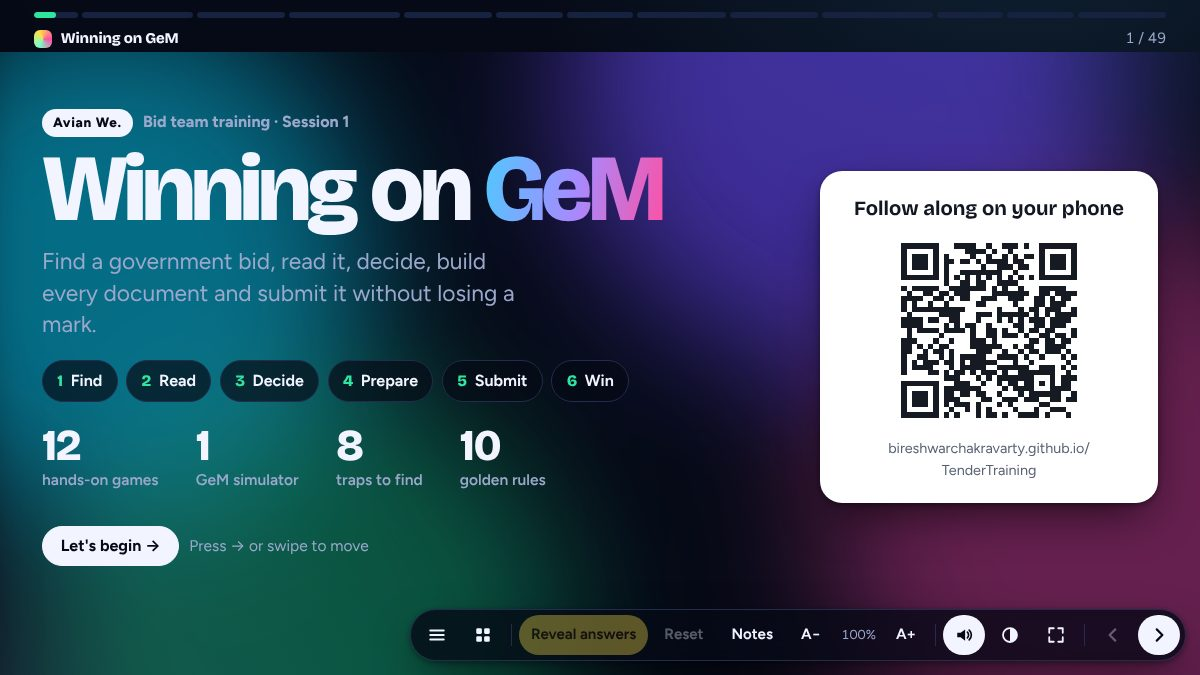
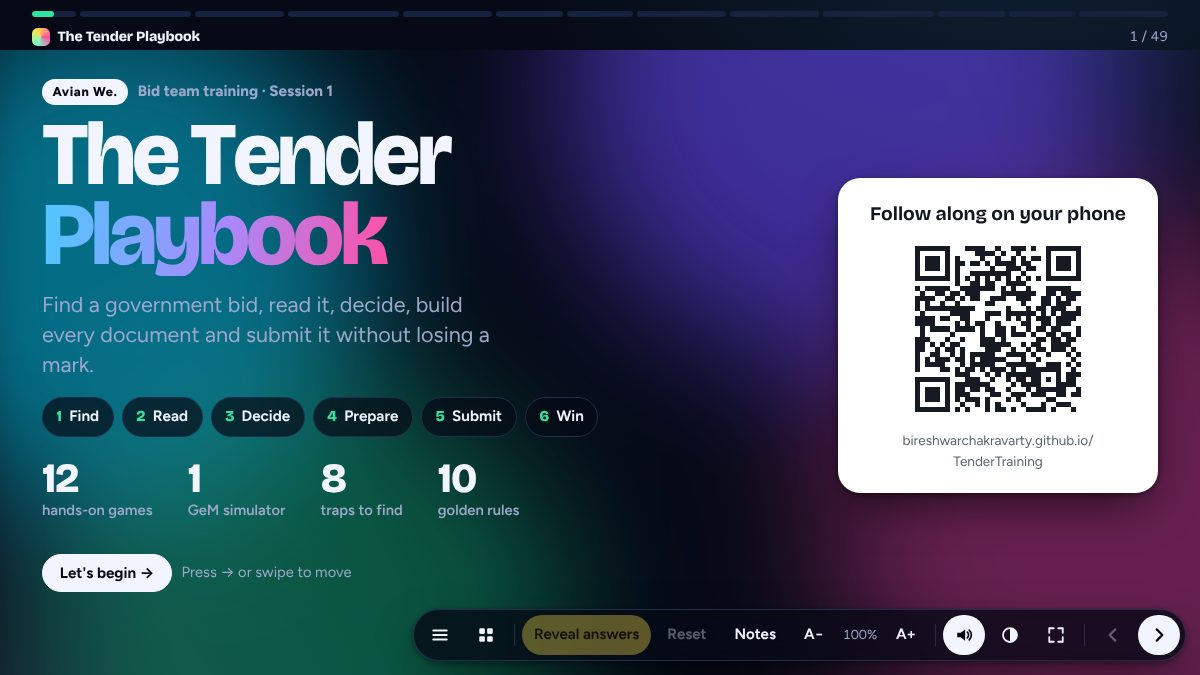
Rename the session to The Tender Playbook
Update the cover title, title bar, browser tab, presenter link page,
thank-you slide, README, facilitator guide and package description,
and refresh the README screenshots. The repository and its links keep
their names.

Claude-Session: https://claude.ai/code/session_01DPx9AkKAo1kfFoZzMQx8py

diff --git a/index.html b/index.html
@@ -3,7 +3,7 @@
 <head>
 <meta charset="utf-8">
 <meta name="viewport" content="width=device-width, initial-scale=1, viewport-fit=cover">
-<title>Winning on GeM</title>
+<title>The Tender Playbook</title>
 <meta name="claude:viewport-fit-sides" content="cover">
 <meta name="description" content="Avian We. tender training: finding, reading, preparing and submitting a GeM bid, with a practice tender.">
 <link rel="preconnect" href="https://fonts.googleapis.com">
@@ -16,18 +16,18 @@
 <div class="app">
   <header class="topbar">
     <div class="chapterbar" id="chapterbar" aria-label="Chapters"></div>
-    <div class="topline"><span class="logo"><i aria-hidden="true"></i>Winning on GeM</span><span class="chapter-name" id="chapterName"></span><span class="count" id="count">1 / 1</span></div>
+    <div class="topline"><span class="logo"><i aria-hidden="true"></i>The Tender Playbook</span><span class="chapter-name" id="chapterName"></span><span class="count" id="count">1 / 1</span></div>
   </header>
 
   <main class="stage" id="stage">
 
 <!-- =================================================================== 00 · THE FILE -->
-<section class="slide cover" id="start" data-chapter="0" data-title="Winning on GeM">
+<section class="slide cover" id="start" data-chapter="0" data-title="The Tender Playbook">
   <div class="deco" aria-hidden="true"><div class="aurora"><i></i><i></i><i></i><i></i></div></div>
   <div class="cover-grid">
     <div>
       <span class="kicker"><b>Avian We.</b> Bid team training · Session 1</span>
-      <h1 class="title-xl"><span data-split>Winning on</span> <span class="accent">GeM</span></h1>
+      <h1 class="title-xl"><span data-split>The Tender</span> <span class="accent">Playbook</span></h1>
       <p class="cover-sub">Find a government bid, read it, decide, build every document and submit it without losing a mark.</p>
       <div class="journey" aria-label="The journey">
         <span style="--k:0"><b>1</b> Find</span><span style="--k:1"><b>2</b> Read</span><span style="--k:2"><b>3</b> Decide</span><span style="--k:3"><b>4</b> Prepare</span><span style="--k:4"><b>5</b> Submit</span><span style="--k:5"><b>6</b> Win</span>
@@ -1029,7 +1029,7 @@
 
 <section class="slide finale" id="thanks" data-chapter="12" data-title="Thank you">
   <div class="deco" aria-hidden="true"><div class="aurora"><i></i><i></i><i></i><i></i></div></div>
-  <span class="kicker"><b>THAT'S A WRAP</b> Winning on GeM · Session 1</span>
+  <span class="kicker"><b>THAT'S A WRAP</b> The Tender Playbook · Session 1</span>
   <h2>Thank you</h2>
   <p class="lede">Best of luck with your first bid. Go win one.</p>
   <p class="sub">Keep the golden rules close, run the triage every morning, and never upload on the last day.</p>
@@ -1067,7 +1067,7 @@
 </nav>
 
 <aside class="drawer" id="drawer" aria-label="Chapters">
-  <span class="logo"><i aria-hidden="true"></i>Winning on GeM</span>
+  <span class="logo"><i aria-hidden="true"></i>The Tender Playbook</span>
   <ol class="chapters" id="chapters"></ol>
   <div class="drawer-foot">
     <span class="presenter-only hand">Presenter view</span>

diff --git a/assets/js/deck.js b/assets/js/deck.js
@@ -86,7 +86,7 @@
     $$("#overviewGrid button").forEach((b, j) => b.setAttribute("aria-current", String(j === i)));
     const notes = $("aside.notes", s);
     $("#notesBody").innerHTML = notes ? notes.innerHTML : "<p>No notes for this slide.</p>";
-    document.title = i === 0 ? "Winning on GeM" : `${s.dataset.title} · Winning on GeM`;
+    document.title = i === 0 ? "The Tender Playbook" : `${s.dataset.title} · The Tender Playbook`;
     if (!fromHash && s.id) { try { history.replaceState(null, "", `${location.pathname}${location.search}#${s.id}`); } catch { /* sandboxed frame */ } }
     s.dispatchEvent(new CustomEvent("slide:shown", { bubbles: true }));
     fit();

diff --git a/present/index.html b/present/index.html
@@ -3,7 +3,7 @@
 <head>
 <meta charset="utf-8">
 <meta name="viewport" content="width=device-width, initial-scale=1">
-<title>Winning on GeM · Presenter</title>
+<title>The Tender Playbook · Presenter</title>
 <meta name="robots" content="noindex">
 <script>location.replace("../index.html?mode=present" + location.hash);</script>
 <meta http-equiv="refresh" content="0; url=../index.html?mode=present">

diff --git a/README.md b/README.md
@@ -1,6 +1,6 @@
 <div align="center">
   <h1>Tender Training</h1>
-  <p><strong>Winning on GeM: a hands-on, animated training deck for the Avian We. bid team.</strong></p>
+  <p><strong>The Tender Playbook: a hands-on, animated training deck for the Avian We. bid team.</strong></p>
   <p>
     <a href="https://bireshwarchakravarty.github.io/TenderTraining/present/"><strong>Presenter link</strong></a> ·
     <a href="https://bireshwarchakravarty.github.io/TenderTraining/"><strong>Attendee link</strong></a> ·

diff --git a/docs/facilitator-guide.md b/docs/facilitator-guide.md
@@ -1,6 +1,6 @@
 # Facilitator guide
 
-A run sheet for **Winning on GeM**. The full session takes about three and a half hours with a ten-minute break. A short version for two and a half hours is at the end.
+A run sheet for **The Tender Playbook**. The full session takes about three and a half hours with a ten-minute break. A short version for two and a half hours is at the end.
 
 ## Before the session
 

diff --git a/CHANGELOG.md b/CHANGELOG.md
@@ -1,5 +1,9 @@
 # Changelog
 
+## 3.4.0 · 2026-10-22
+
+- The session is renamed **The Tender Playbook**: cover, title bar, browser tab, thank-you slide, README and guides.
+
 ## 3.3.1 · 2026-10-22
 
 Audit fixes.
